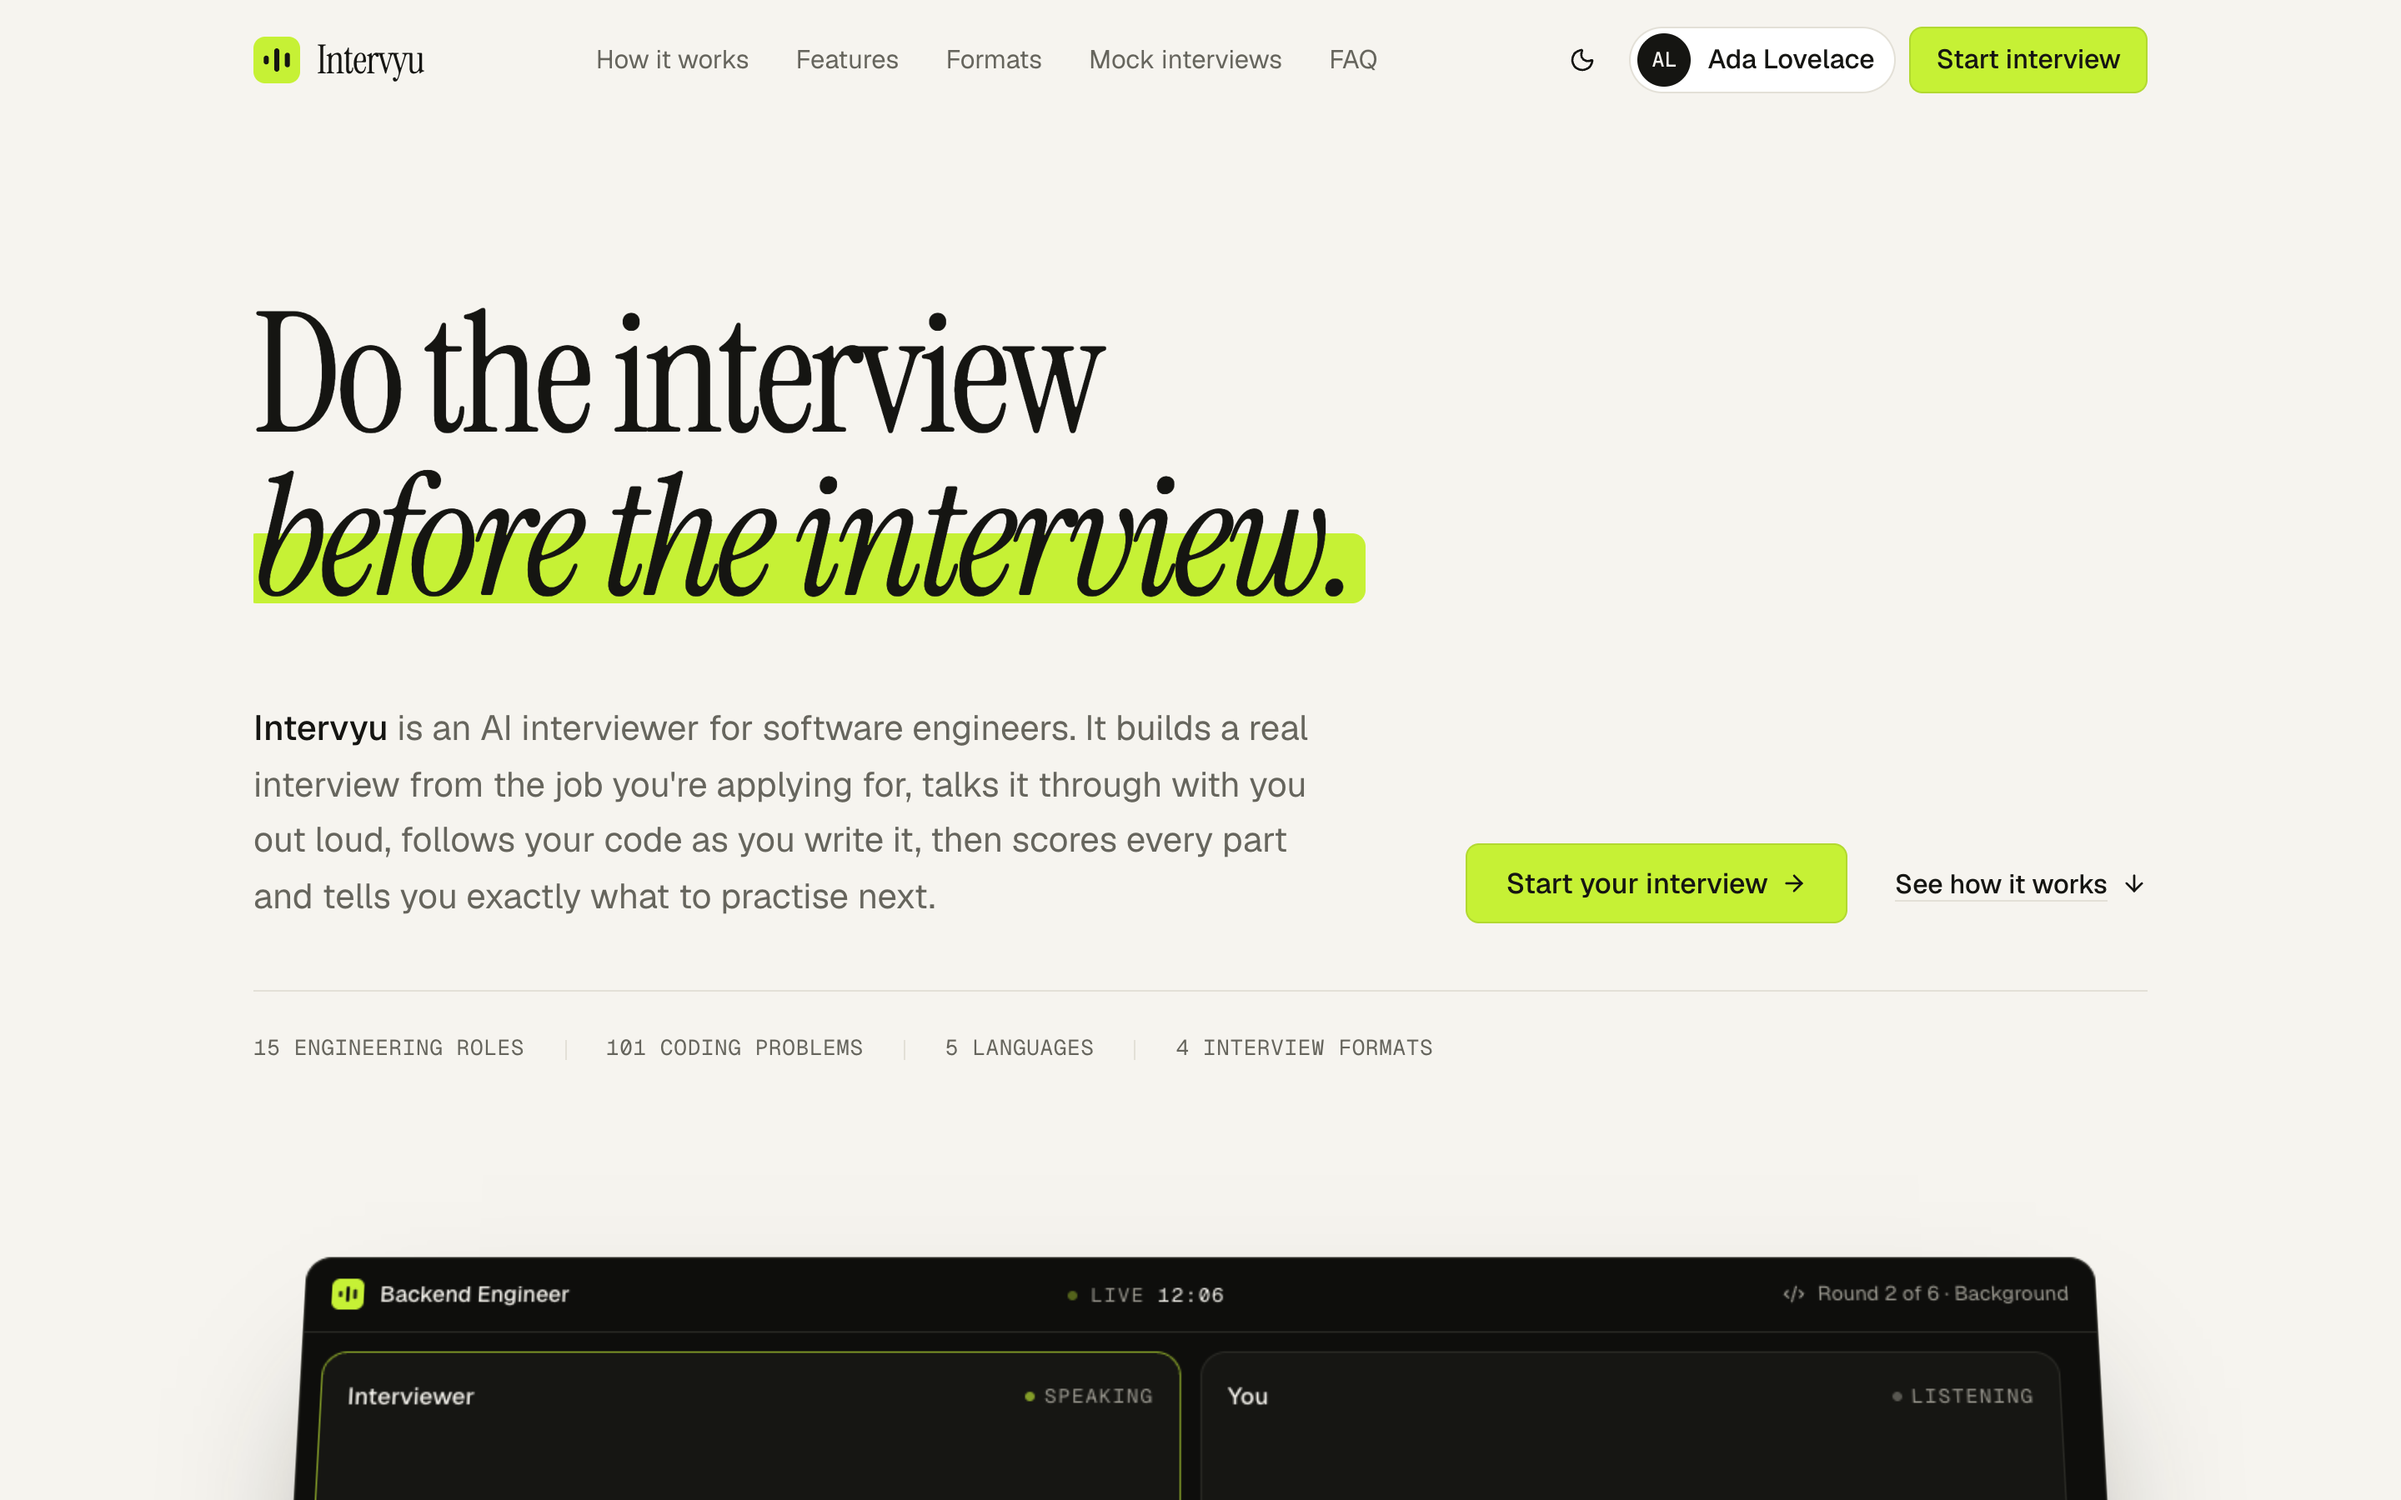
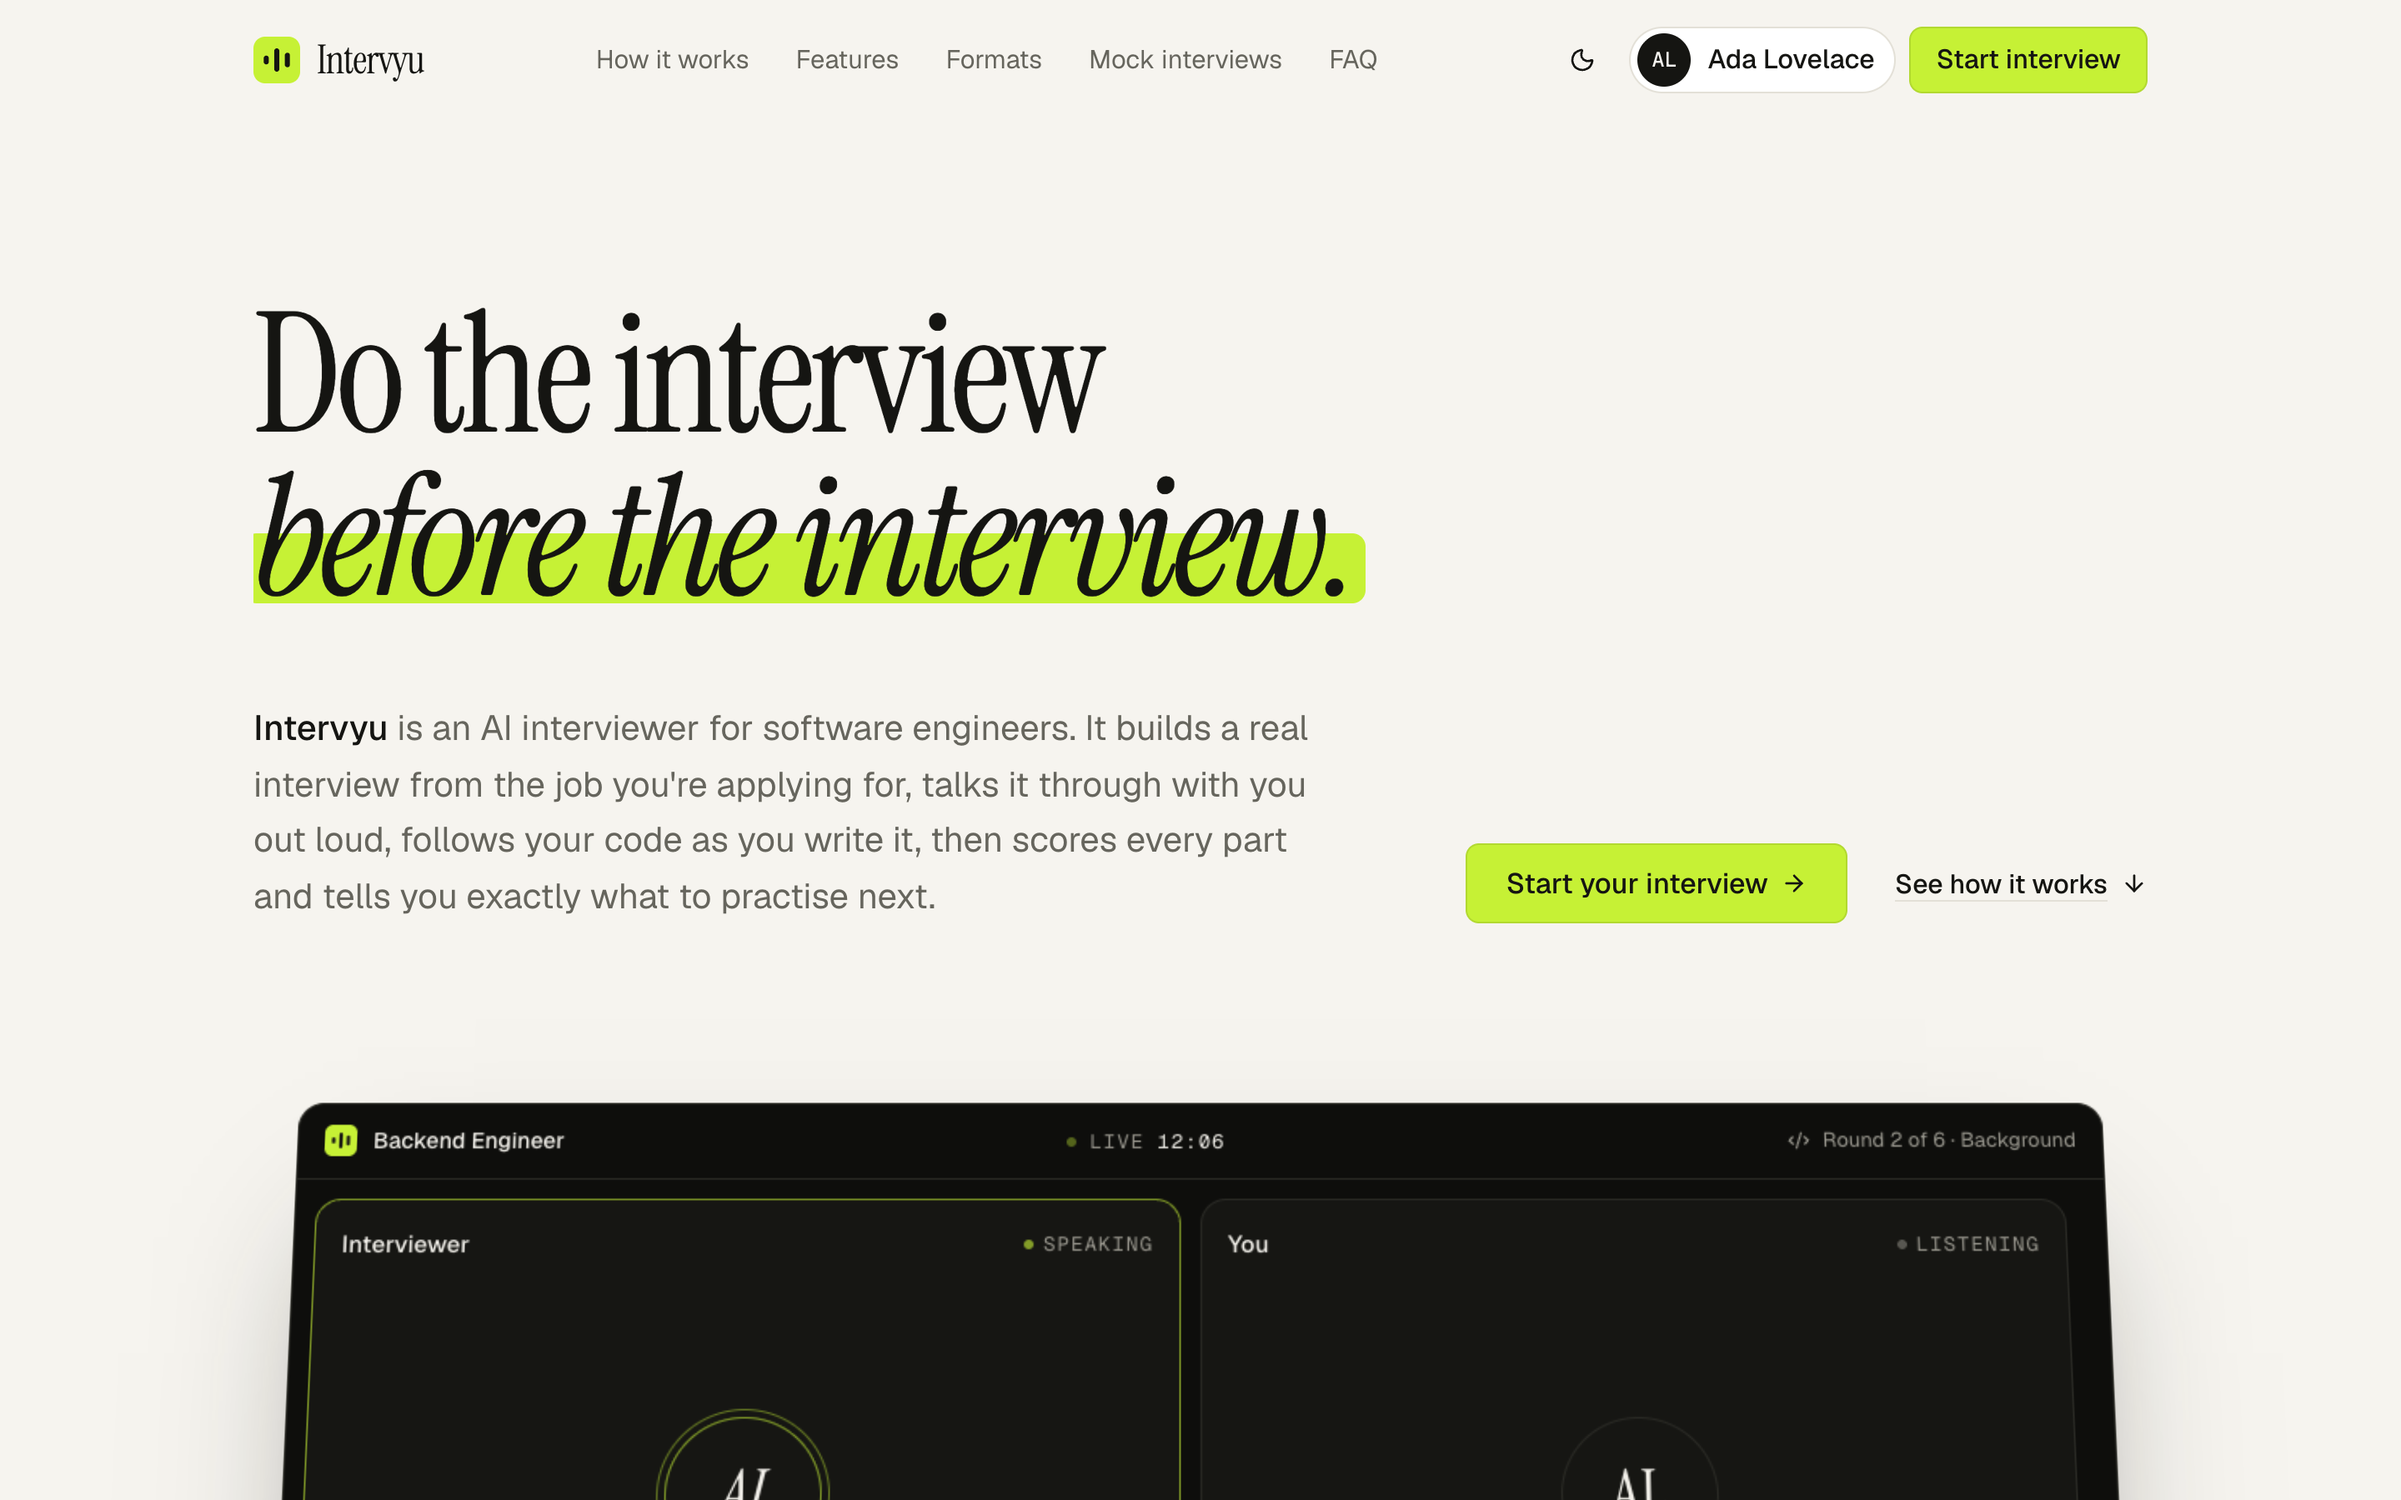
Landing: drop the stats line and the Setup section
- The "15 engineering roles | 101 coding problems | 5 languages | 4 interview
  formats" line is gone from the hero, and no page, the share image, the search
  metadata or llms.txt quotes those counts any more (the roles strip, the roles
  section, formats, the features grid, the FAQ and the role pages are reworded).
- The "Built from the job you actually want" Setup section is removed, with its
  footer link. How it works still opens with setting up around your job.

diff --git a/frontend/src/components/landing/Hero.tsx b/frontend/src/components/landing/Hero.tsx
@@ -6,7 +6,6 @@ import { ProductWindow } from "@/components/landing/ProductWindow";
 import { useStartInterview } from "@/components/landing/useStartInterview";
 import { Button } from "@/components/ui/button";
 import { Spinner } from "@/components/ui/spinner";
-import { FORMAT_CONTENT, PRODUCT_STATS } from "@/content/roles.generated";
 
 /** One line of the headline, revealed from behind a mask. */
 function Line({ children, delay = 0 }: { children: React.ReactNode; delay?: number }) {
@@ -32,14 +31,6 @@ function Emphasis({ children }: { children: React.ReactNode }) {
         </span>
     );
 }
-
-// Real numbers from the interviewer's own banks (exported by backend/scripts/export-role-content.ts), never invented.
-const FACTS = [
-    `${PRODUCT_STATS.roles} engineering roles`,
-    `${PRODUCT_STATS.problems} coding problems`,
-    `${PRODUCT_STATS.languages.length} languages`,
-    `${FORMAT_CONTENT.length} interview formats`,
-];
 
 export function Hero() {
     const { start, checking } = useStartInterview();
@@ -88,19 +79,6 @@ export function Hero() {
                         </a>
                     </div>
                 </div>
-
-                <ul
-                    aria-label="At a glance"
-                    className="enter-fade mt-10 grid grid-cols-2 gap-x-6 gap-y-2.5 border-t pt-6 font-mono text-[13px] tracking-wide text-muted-foreground uppercase sm:flex sm:flex-wrap"
-                    style={{ "--enter-delay": "0.7s" } as React.CSSProperties}
-                >
-                    {FACTS.map((fact, index) => (
-                        <li key={fact} className="flex items-center gap-6">
-                            {index > 0 && <span aria-hidden className="hidden h-3 w-px bg-border sm:block" />}
-                            {fact}
-                        </li>
-                    ))}
-                </ul>
 
                 <div
                     className="enter-fade-up mt-14 sm:mt-20"

diff --git a/frontend/src/seo.ts b/frontend/src/seo.ts
@@ -67,12 +67,12 @@ const webApplication = {
     featureList: [
         "Spoken mock interviews with an AI interviewer that follows up on your answers",
         "Questions built from a job description, resume and GitHub profile",
-        `${PRODUCT_STATS.problems} coding problems with hidden tests in ${PRODUCT_STATS.languages.join(", ")}`,
+        `Coding problems with hidden tests in ${PRODUCT_STATS.languages.join(", ")}`,
         "Problem difficulty that adapts to how the last problem went",
         "A whiteboard for system design interviews",
-        `${FORMAT_CONTENT.length} interview formats, from a 20-minute screen to a full loop`,
+        "Interview formats from a 20-minute screen to a full loop",
         "A scored report with evidence from your transcript and a prioritised study plan",
-        `Mock interviews for ${PRODUCT_STATS.roles} engineering roles`,
+        "Mock interviews for each engineering role",
     ],
 };
 
@@ -131,7 +131,7 @@ export function seoFor(pathname: string): Seo {
 
     if (path === "/mock-interviews") {
         return {
-            title: `Mock Interview Practice for ${ROLE_CONTENT.length} Engineering Roles | ${SITE_NAME}`,
+            title: `AI Mock Interview Practice by Engineering Role | ${SITE_NAME}`,
             description: `AI mock interviews for ${ROLE_CONTENT.map((r) => r.role).slice(0, 3).join(", ")} and more: what each interview covers, with sample questions.`,
             canonical: "/mock-interviews",
             noindex: false,

diff --git a/frontend/src/components/landing/Bento.tsx b/frontend/src/components/landing/Bento.tsx
@@ -149,7 +149,7 @@ function TalkOrTypeVisual() {
                 {typed}
                 <span className="ml-px inline-block h-[1em] w-[2px] translate-y-[0.15em] animate-blink bg-foreground" />
             </div>
-            <p className="text-[14.5px] text-muted-foreground">8 interviewer voices · 5 English accents · live captions</p>
+            <p className="text-[14.5px] text-muted-foreground">A choice of interviewer voices and accents, with live captions</p>
         </div>
     );
 }
@@ -264,8 +264,8 @@ export function Bento() {
 
                     <TileShell
                         eyebrow="Editor"
-                        title="Five languages."
-                        text="Starter code for each, run the examples or your own input, and every language keeps its own draft."
+                        title="Code in your language."
+                        text="JavaScript, TypeScript, Python, C++ or Java, with starter code for each. Run the examples or your own input, and every language keeps its own draft."
                         className="md:col-span-2 lg:col-span-4"
                     >
                         <LanguagesVisual />

diff --git a/frontend/src/content/faq.ts b/frontend/src/content/faq.ts
@@ -23,7 +23,7 @@ export const FAQ: ReadonlyArray<{ q: string; a: string }> = [
     },
     {
         q: "Which interview formats can I choose?",
-        a: `There are ${FORMAT_CONTENT.length}: ${formats.join(", ")}. Intervyu suggests one for your level (the full loop for senior and staff engineers) and you can pick any of them.`,
+        a: `You can choose a ${formats.slice(0, -1).join(", a ")} or a ${formats.at(-1)}. Intervyu suggests one for your level (the full loop for senior and staff engineers) and you can pick any of them.`,
     },
     {
         q: "Is there a whiteboard for system design?",
@@ -35,7 +35,7 @@ export const FAQ: ReadonlyArray<{ q: string; a: string }> = [
     },
     {
         q: "Which roles can I practise for?",
-        a: `${roles.length} engineering roles: ${roles.join(", ")}. Each has its own page showing what the interview covers and sample questions.`,
+        a: `${roles.slice(0, -1).join(", ")} and ${roles.at(-1)}. Each has its own page showing what the interview covers and sample questions.`,
     },
     {
         q: "What do I get at the end?",

diff --git a/frontend/src/components/landing/MockInterviews.tsx b/frontend/src/components/landing/MockInterviews.tsx
@@ -26,11 +26,11 @@ export function MockInterviews() {
                         <p className="label-mono text-muted-foreground">Mock interviews</p>
                         <h2 className="text-h2 mt-4">See the interview before you take it.</h2>
                         <p className="text-lede mt-5 max-w-xl text-muted-foreground">
-                            {ROLE_CONTENT.length} roles, each with its own real loop — sample questions, coding topics and what a strong answer covers.
+                            Each role has its own loop: sample questions, coding topics and what a strong answer covers.
                         </p>
                     </div>
                     <Link to="/mock-interviews" className="group inline-flex shrink-0 items-center gap-2 text-sm font-medium">
-                        See all {ROLE_CONTENT.length} roles
+                        See all roles
                         <ArrowRight className="size-4 transition-transform group-hover:translate-x-0.5" />
                     </Link>
                 </div>

diff --git a/frontend/src/pages/RolePage.tsx b/frontend/src/pages/RolePage.tsx
@@ -90,7 +90,7 @@ export function RolePage() {
                 <section className="mt-20 border-t pt-16">
                     <h2 className="text-h3">Coding and system design</h2>
                     <p className="mt-4 max-w-2xl text-[17px] leading-relaxed text-muted-foreground">
-                        The coding rounds draw from {PRODUCT_STATS.problems} problems with hidden tests, in {PRODUCT_STATS.languages.join(", ")}. For {role.role.toLowerCase()} roles the interviewer leans on {role.codingTopics.map((t) => TOPIC_LABEL[t] ?? t).join(", ").toLowerCase()}.
+                        The coding rounds draw from a bank of problems with hidden tests, in {PRODUCT_STATS.languages.join(", ")}. For {role.role.toLowerCase()} roles the interviewer leans on {role.codingTopics.map((t) => TOPIC_LABEL[t] ?? t).join(", ").toLowerCase()}.
                     </p>
                     {role.designPrompts.length > 0 && (
                         <ul className="mt-8 grid gap-5 md:grid-cols-2">

diff --git a/frontend/src/components/landing/Formats.tsx b/frontend/src/components/landing/Formats.tsx
@@ -45,7 +45,7 @@ export function Formats() {
                         <p className="label-mono text-muted-foreground">Formats</p>
                         <h2 className="text-h2 mt-4">Twenty minutes, or the full loop.</h2>
                         <p className="text-lede mt-5 text-muted-foreground">
-                            Four shapes of interview, each timed like the real one. Intervyu suggests one for your level, and you can always pick another.
+                            Each format is timed like the real interview it's modelled on. Intervyu suggests one for your level, and you can always pick another.
                         </p>
                     </div>
                     <ul aria-label="Round types" className="flex max-w-md flex-wrap gap-x-5 gap-y-2">

diff --git a/frontend/src/pages/Landing.tsx b/frontend/src/pages/Landing.tsx
@@ -4,7 +4,6 @@ import { FinalCta } from "@/components/landing/FinalCta";
 import { Formats } from "@/components/landing/Formats";
 import { Hero } from "@/components/landing/Hero";
 import { HowItWorks } from "@/components/landing/HowItWorks";
-import { JobFit } from "@/components/landing/JobFit";
 import { MockInterviews } from "@/components/landing/MockInterviews";
 import { ReportShowcase } from "@/components/landing/ReportShowcase";
 import { RolesMarquee } from "@/components/landing/RolesMarquee";
@@ -19,7 +18,6 @@ export function Landing() {
                 <Hero />
                 <RolesMarquee />
                 <HowItWorks />
-                <JobFit />
                 <Bento />
                 <Formats />
                 <ReportShowcase />

diff --git a/frontend/scripts/make-og-image.ts b/frontend/scripts/make-og-image.ts
@@ -36,7 +36,7 @@ p{position:absolute;left:72px;top:418px;width:740px;font-size:26px;line-height:1
 <div class="brand">${MARK}Intervyu</div>
 <h1>Do the interview<br><em>before the interview.</em></h1>
 <p>AI mock interviews for software engineers. Talk it through, code against real tests, get a scored report.</p>
-<div class="tag">Coding · System design · Behavioral · 15 roles</div>
+<div class="tag">Coding · System design · Behavioral · Scored report</div>
 <div class="wave">${[70, 130, 210, 290, 180, 250, 110, 190, 90].map((h) => `<i style="height:${h}px"></i>`).join("")}</div>
 </body></html>`;
 

diff --git a/frontend/prerender.ts b/frontend/prerender.ts
@@ -125,7 +125,7 @@ function llmsTxt(): string {
         "## Pages",
         "",
         `- [Home](${abs("/")}): what ${SITE_NAME} is and how an interview works`,
-        `- [Mock interviews by role](${abs("/mock-interviews")}): all ${ROLE_CONTENT.length} roles`,
+        `- [Mock interviews by role](${abs("/mock-interviews")}): every role, with what its interview covers`,
         ...ROLE_CONTENT.map((role) => `- [${role.role} mock interview](${abs(`/mock-interviews/${role.slug}`)}): ${role.summary}`),
         `- [Privacy](${abs("/privacy")})`,
         `- [Terms](${abs("/terms")})`,

diff --git a/frontend/src/components/landing/RolesMarquee.tsx b/frontend/src/components/landing/RolesMarquee.tsx
@@ -31,7 +31,7 @@ export function RolesMarquee() {
         <section aria-labelledby="roles-marquee-label" className="border-y py-10 sm:py-12">
             <div className="page-container">
                 <p id="roles-marquee-label" className="label-mono text-muted-foreground">
-                    Mock interviews for {roles.length} engineering roles
+                    Mock interviews by role
                 </p>
             </div>
             <div className="group mt-7 flex overflow-hidden [mask-image:linear-gradient(90deg,transparent,#000_8%,#000_92%,transparent)]">

diff --git a/frontend/src/pages/RolesIndex.tsx b/frontend/src/pages/RolesIndex.tsx
@@ -47,7 +47,7 @@ export function RolesIndex() {
                         ))}
                     </ul>
                     <p className="mt-10 text-sm text-muted-foreground">
-                        {PRODUCT_STATS.problems} coding problems, each with hidden tests, in {PRODUCT_STATS.languages.join(", ")}.
+                        Coding problems with hidden tests, in {PRODUCT_STATS.languages.join(", ")}.
                     </p>
                 </section>
             </div>
